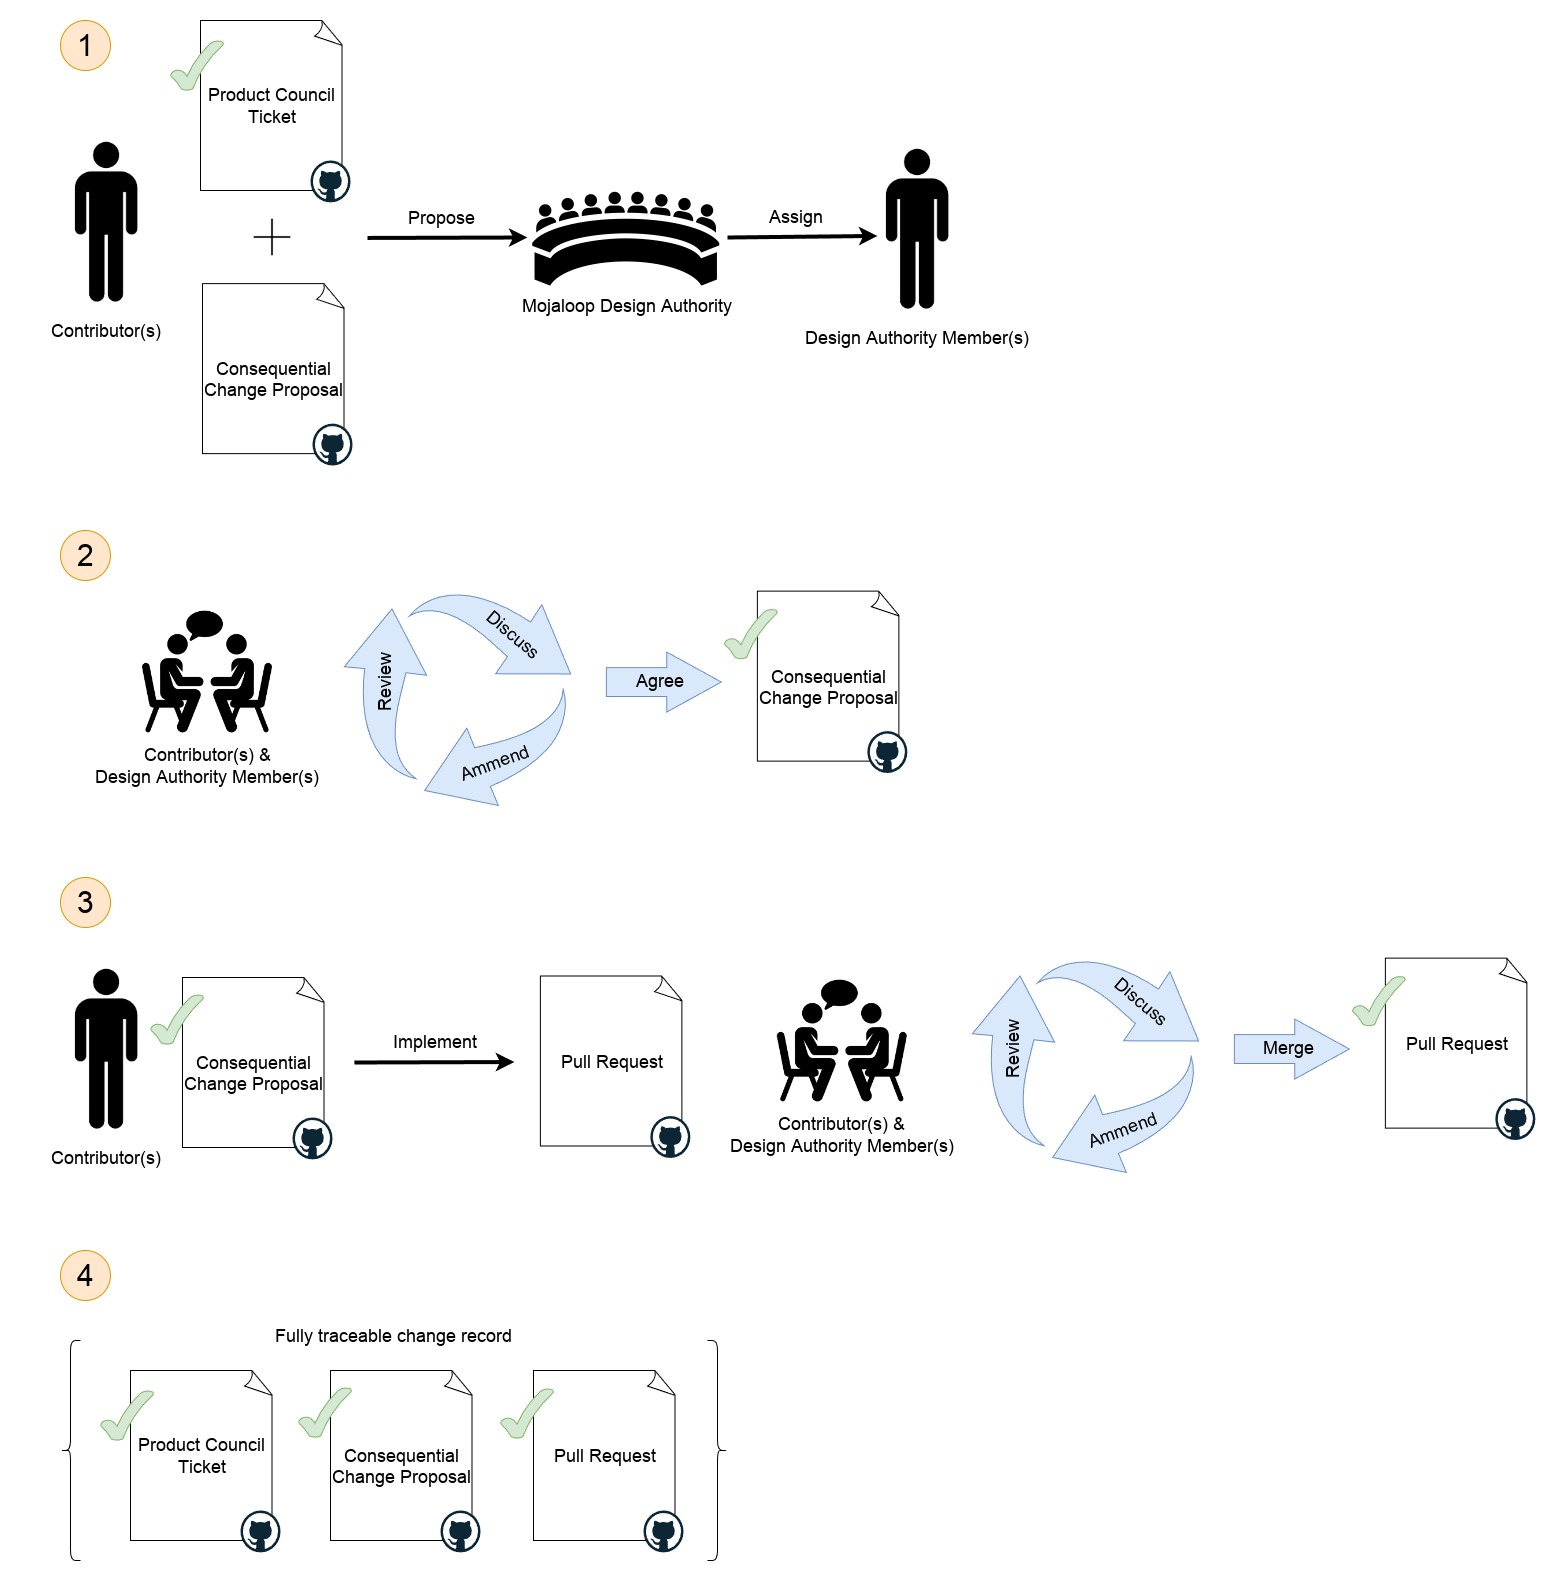
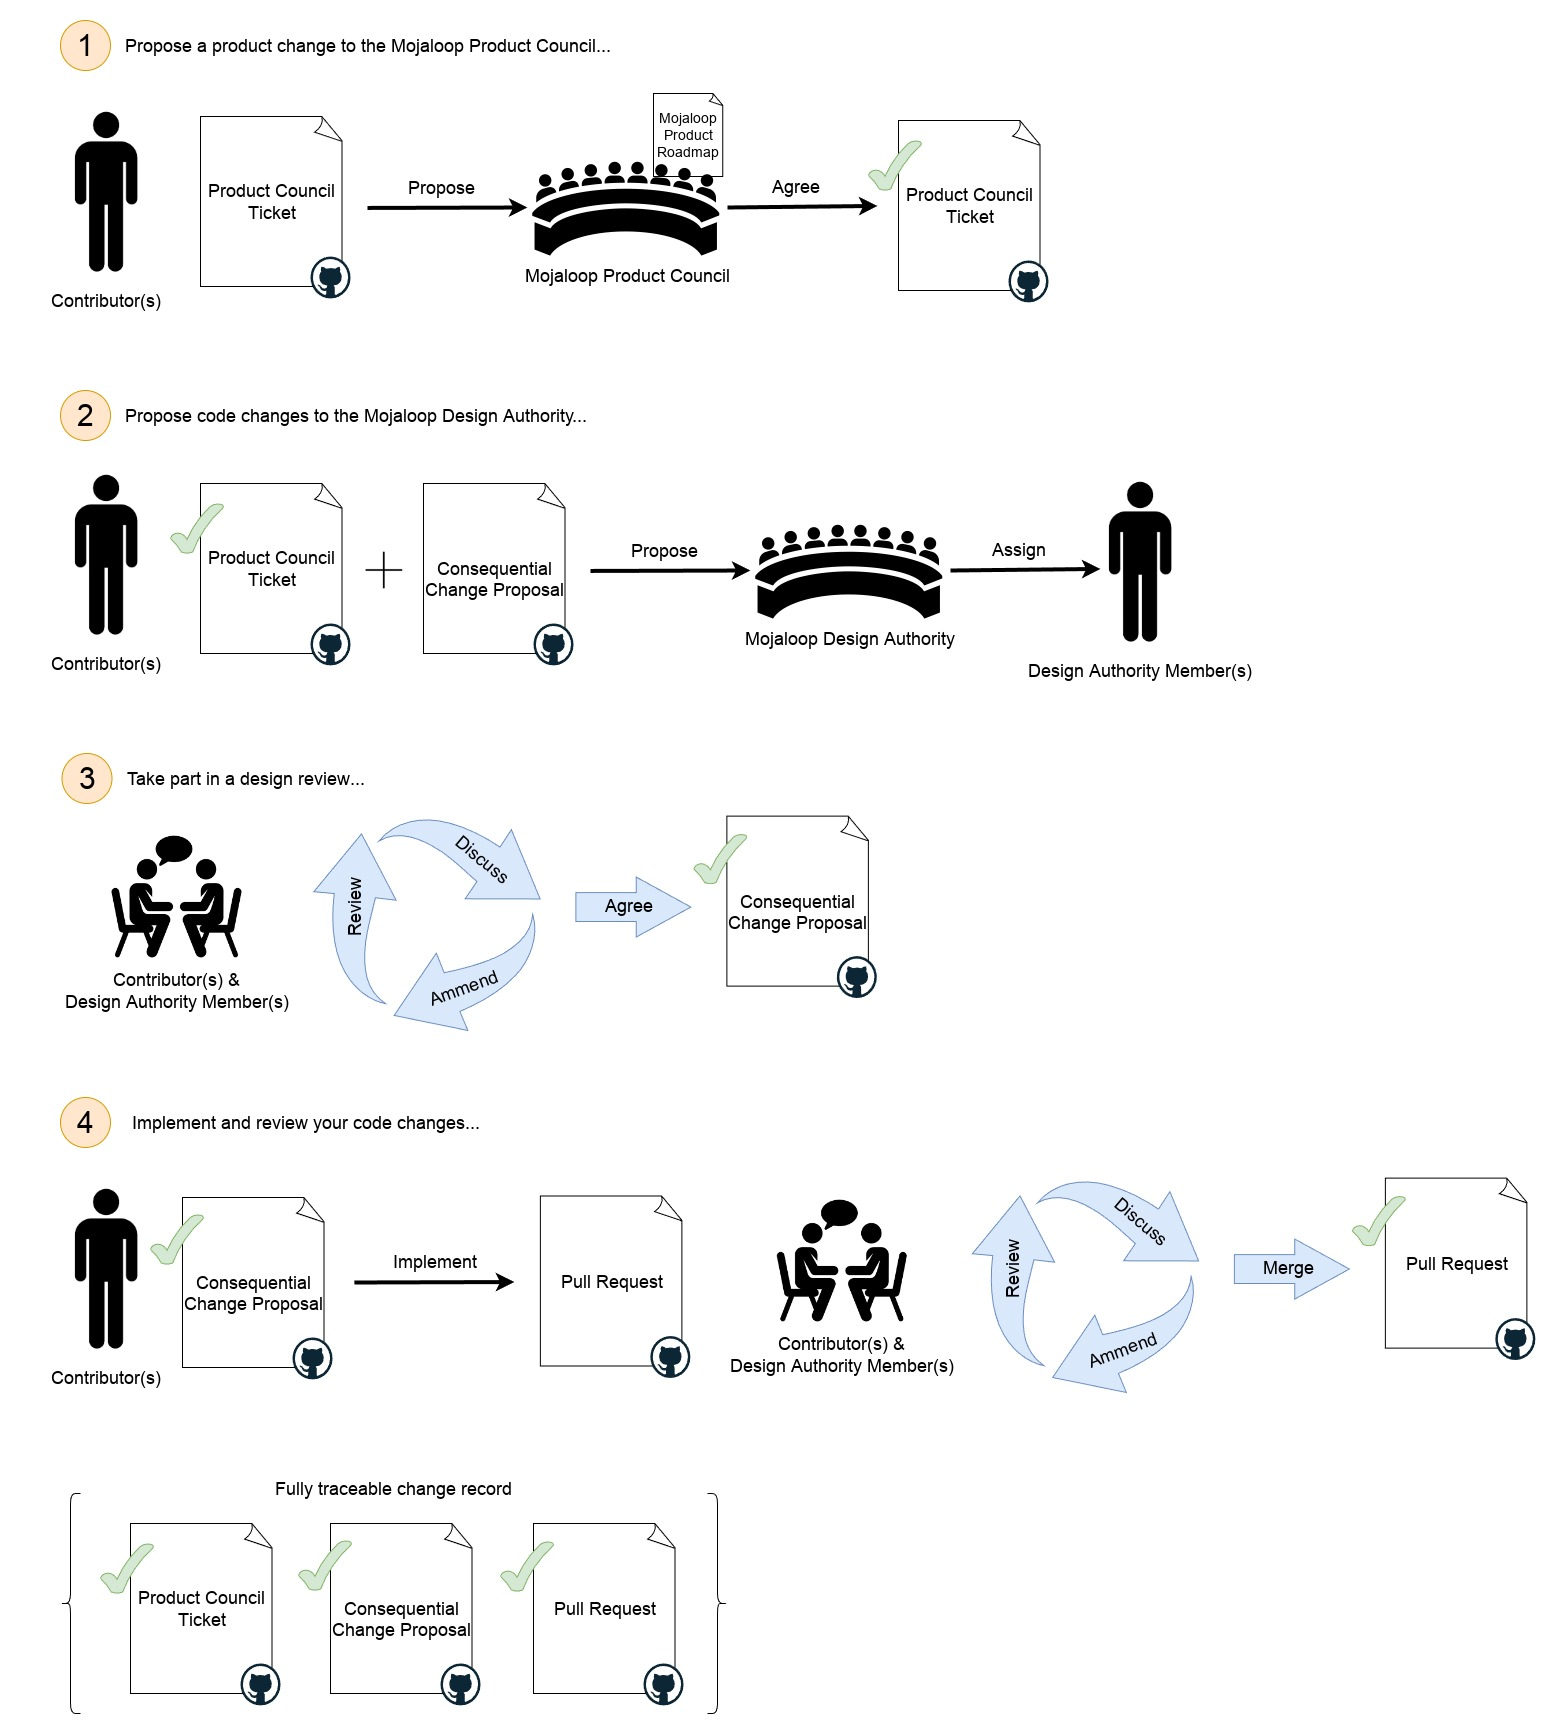
progress checking. work in progress

diff --git a/docs/community/contributing/consequential-change-process.md b/docs/community/contributing/consequential-change-process.md
@@ -3,30 +3,28 @@
 For changes which are covered by the [consequential change definition](./design-review.md#consequential-changes) the
 following process must be followed:
 
-1. Create a 'Product Change Proposal' and request a review:
+1. Propose a product change to the Mojaloop Product Council:
    1. Create a 'Product Change Proposal' in the GitHub 'product-council' project
       repository [here](https://github.com/mojaloop/product-council-project/issues).
       1. Complete the template as thoroughly as possible to ensure a quick turnaround.
    2. Send a message on the [#product-council](https://mojaloop.slack.com/archives/C01FF8AQUAK) slack channel asking for
       a review of your proposal.
    3. The Product Council will discuss your proposal with you and identify an appropriate Mojaloop workstream.
-2. Create a 'Consequential Change Proposal' and request a review:
-    1. If you have not done so already, create a 'Product Change Proposal' in the GitHub 'product-council' project
-       repository [here](https://github.com/mojaloop/product-council-project/issues).
-        1. If you have not done so already, ask the product council to review your proposal by sending a message on
-           the [#product-council](https://mojaloop.slack.com/archives/C01FF8AQUAK) slack channel.
-    2. Create a 'Consequential Change Proposal' issue in the GitHub 'design-authority-project'
+2. Propose code changes to the Mojaloop Design Authority:
+    1. Create a 'Consequential Change Proposal' issue in the GitHub 'design-authority-project'
        repository [here](https://github.com/mojaloop/design-authority-project/issues).
         1. Complete the template as thoroughly as possible to ensure a quick turnaround.
-    3. Send a message on the [#design-authority](https://mojaloop.slack.com/archives/CARJFMH3Q) slack channel asking for
+    2. Send a message on the [#design-authority](https://mojaloop.slack.com/archives/CARJFMH3Q) slack channel asking for
        a review of your proposal.
-    4. The design authority will assign one or more members to work with you on your proposal.
-3. Collaborate with one or more design authority members on your proposal:
+    3. The design authority will assign one or more members to work with you on your proposal.
+3. Take part in a design review:
     1. Your assigned design authority member(s) will guide you through an iterative design review process.
     2. Once the design review process is complete you may proceed with your change.
     3. Once you have implemented your change, your assigned design authority member(s) will review your code changes
        with you.
     4. Any changes to the design made during implementation must be recorded on the proposal ticket.
+4. Implement and review your code changes:
+   1. 
 
 ![Consequential Change Process](./assets/consequential-change-process.jpg)
 

diff --git a/docs/community/contributing/product-engineering-process.md b/docs/community/contributing/product-engineering-process.md
@@ -23,7 +23,7 @@ Our model is a cycle of "[program increments](https://v5.scaledagileframework.co
 approximately four calendar months. At the end of each increment, workstreams present their accomplishments at a
 community meeting and planning for the next increment begins.
 
-**_Mojaloop is open-source software, but that does not mean we don't follow the best demonstrated industry practices and
+**_Mojaloop is open-source software, we follow the best demonstrated industry practices and
 risk management strategies appropriate for our market._**
 
 ![Mojaloop Program Increments](./assets/mojaloop-product-engineering-process-overview.jpg)
